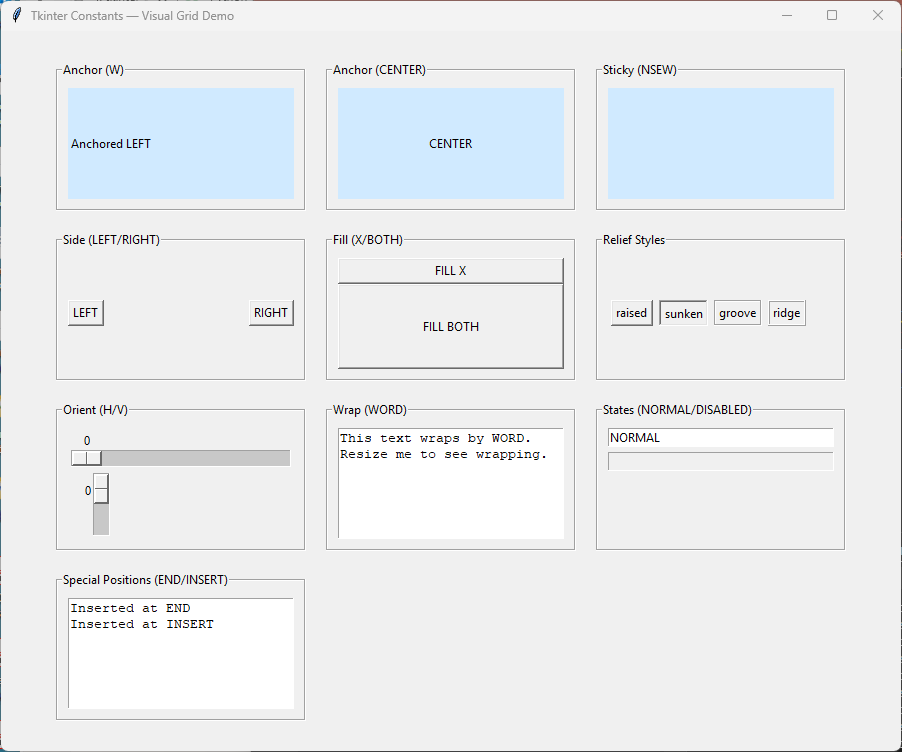
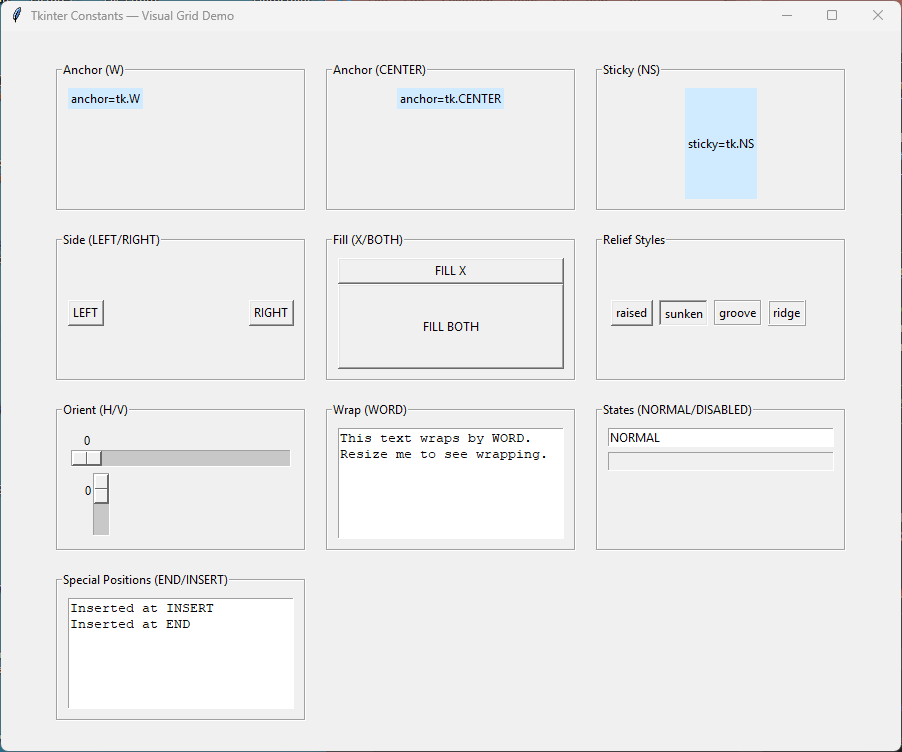
constants

diff --git a/docs/tk_basics/python/tk_constants.py b/docs/tk_basics/python/tk_constants.py
@@ -24,21 +24,21 @@ grid.pack(padx=20, pady=20)
 # 1. ANCHOR DEMOS
 # ---------------------------------------------------------
 def anchor_demo(parent):
-    lbl = tk.Label(parent, text="Anchored LEFT", bg="#d0eaff", anchor=tk.W)
-    lbl.pack(fill=tk.BOTH, expand=True)
+    lbl = tk.Label(parent, text="anchor=tk.W", bg="#d0eaff")
+    lbl.pack(anchor=tk.W)
 
 def anchor_center_demo(parent):
-    lbl = tk.Label(parent, text="CENTER", bg="#d0eaff", anchor=tk.CENTER)
-    lbl.pack(fill=tk.BOTH, expand=True)
+    lbl = tk.Label(parent, text="anchor=tk.CENTER", bg="#d0eaff")
+    lbl.pack(anchor=tk.CENTER)
 
 # ---------------------------------------------------------
 # 2. STICKY DEMOS
 # ---------------------------------------------------------
 def sticky_demo(parent):
-    f = tk.Frame(parent, bg="#d0eaff")
-    f.grid(row=0, column=0, sticky=tk.NSEW)
+    lbl = tk.Label(parent, text="sticky=tk.NS", bg="#d0eaff")
     parent.grid_rowconfigure(0, weight=1)
     parent.grid_columnconfigure(0, weight=1)
+    lbl.grid(row=0, column=0, sticky=tk.NS)
 
 # ---------------------------------------------------------
 # 3. SIDE DEMOS
@@ -94,8 +94,8 @@ def state_demo(parent):
 def special_demo(parent):
     txt = tk.Text(parent, height=4)
     txt.pack(fill=tk.BOTH, expand=True)
-    txt.insert(tk.END, "Inserted at END\n")
     txt.insert(tk.INSERT, "Inserted at INSERT\n")
+    txt.insert(tk.END, "Inserted at END\n")
 
 # ---------------------------------------------------------
 # PLACE CELLS IN A VISUAL GRID
@@ -103,131 +103,7 @@ def special_demo(parent):
 cells = [
     ("Anchor (W)", anchor_demo),
     ("Anchor (CENTER)", anchor_center_demo),
-    ("Sticky (NSEW)", sticky_demo),
-    ("Side (LEFT/RIGHT)", side_demo),
-    ("Fill (X/BOTH)", fill_demo),
-    ("Relief Styles", relief_demo),
-    ("Orient (H/V)", orient_demo),
-    ("Wrap (WORD)", wrap_demo),
-    ("States (NORMAL/DISABLED)", state_demo),
-    ("Special Positions (END/INSERT)", special_demo),
-]
-
-# 3 columns
-cols = 3
-for i, (title, fn) in enumerate(cells):
-    r = i // cols
-    c = i % cols
-    cell = make_cell(grid, title, fn)
-    cell.grid(row=r, column=c, padx=10, pady=10)
-
-root.mainloop()
-import tkinter as tk
-
-root = tk.Tk()
-root.title("Tkinter Constants — Visual Grid Demo")
-root.geometry("900x900")
-root.configure(bg="#f0f0f0")
-
-# Helper to create labeled demo cells
-def make_cell(parent, title, widget_fn):
-    frame = tk.LabelFrame(parent, text=title, padx=10, pady=10)
-    frame.pack_propagate(False)
-    frame.configure(width=250, height=150)
-    frame.grid_propagate(False)
-    widget_fn(frame)
-    return frame
-
-# ---------------------------------------------------------
-# GRID CONTAINER
-# ---------------------------------------------------------
-grid = tk.Frame(root, bg="#f0f0f0")
-grid.pack(padx=20, pady=20)
-
-# ---------------------------------------------------------
-# 1. ANCHOR DEMOS
-# ---------------------------------------------------------
-def anchor_demo(parent):
-    lbl = tk.Label(parent, text="Anchored LEFT", bg="#d0eaff", anchor=tk.W)
-    lbl.pack(fill=tk.BOTH, expand=True)
-
-def anchor_center_demo(parent):
-    lbl = tk.Label(parent, text="CENTER", bg="#d0eaff", anchor=tk.CENTER)
-    lbl.pack(fill=tk.BOTH, expand=True)
-
-# ---------------------------------------------------------
-# 2. STICKY DEMOS
-# ---------------------------------------------------------
-def sticky_demo(parent):
-    f = tk.Frame(parent, bg="#d0eaff")
-    f.grid(row=0, column=0, sticky=tk.NSEW)
-    parent.grid_rowconfigure(0, weight=1)
-    parent.grid_columnconfigure(0, weight=1)
-
-# ---------------------------------------------------------
-# 3. SIDE DEMOS
-# ---------------------------------------------------------
-def side_demo(parent):
-    tk.Button(parent, text="LEFT").pack(side=tk.LEFT)
-    tk.Button(parent, text="RIGHT").pack(side=tk.RIGHT)
-
-# ---------------------------------------------------------
-# 4. FILL DEMOS
-# ---------------------------------------------------------
-def fill_demo(parent):
-    tk.Button(parent, text="FILL X").pack(fill=tk.X)
-    tk.Button(parent, text="FILL BOTH").pack(fill=tk.BOTH, expand=True)
-
-# ---------------------------------------------------------
-# 5. RELIEF DEMOS
-# ---------------------------------------------------------
-def relief_demo(parent):
-    for relief in [tk.RAISED, tk.SUNKEN, tk.GROOVE, tk.RIDGE]:
-        tk.Button(parent, text=relief, relief=relief).pack(side=tk.LEFT, padx=3)
-
-# ---------------------------------------------------------
-# 6. ORIENT DEMOS
-# ---------------------------------------------------------
-def orient_demo(parent):
-    tk.Scale(parent, from_=0, to=100, orient=tk.HORIZONTAL).pack(fill=tk.X)
-    tk.Scale(parent, from_=0, to=100, orient=tk.VERTICAL).pack(side=tk.LEFT, fill=tk.Y)
-
-# ---------------------------------------------------------
-# 7. WRAP DEMOS
-# ---------------------------------------------------------
-def wrap_demo(parent):
-    txt = tk.Text(parent, height=4, wrap=tk.WORD)
-    txt.insert(tk.END, "This text wraps by WORD.\nAcdefg hijklmnop qrstuvwxyz  \nResize me to see wrapping.")
-    txt.pack(fill=tk.BOTH, expand=True)
-
-# ---------------------------------------------------------
-# 8. STATE DEMOS
-# ---------------------------------------------------------
-def state_demo(parent):
-    e1 = tk.Entry(parent)
-    e1.insert(0, "NORMAL")
-    e1.pack(fill=tk.X)
-
-    e2 = tk.Entry(parent, state=tk.DISABLED)
-    e2.insert(0, "DISABLED")
-    e2.pack(fill=tk.X, pady=5)
-
-# ---------------------------------------------------------
-# 9. SPECIAL POSITIONS (END, INSERT)
-# ---------------------------------------------------------
-def special_demo(parent):
-    txt = tk.Text(parent, height=4)
-    txt.pack(fill=tk.BOTH, expand=True)
-    txt.insert(tk.END, "Inserted at END\n")
-    txt.insert(tk.INSERT, "Inserted at INSERT\n")
-
-# ---------------------------------------------------------
-# PLACE CELLS IN A VISUAL GRID
-# ---------------------------------------------------------
-cells = [
-    ("Anchor (W)", anchor_demo),
-    ("Anchor (CENTER)", anchor_center_demo),
-    ("Sticky (NSEW)", sticky_demo),
+    ("Sticky (NS)", sticky_demo),
     ("Side (LEFT/RIGHT)", side_demo),
     ("Fill (X/BOTH)", fill_demo),
     ("Relief Styles", relief_demo),

diff --git a/docs/tk_basics/tkinter_options.rst b/docs/tk_basics/tkinter_options.rst
@@ -2,7 +2,7 @@
 tkinter options
 ====================================================
 
-Setting Options
+Setting Options for tk widgets
 ----------------------------------------
 
 | Options control things like the color and border width of a widget.
@@ -30,7 +30,7 @@ After object creation
 
 .. code-block:: python
 
-    button_1.config(fg="green", bg="yellow", font=("Arial", 24))
+    button_2.config(fg="green", bg="yellow", font=("Arial", 24))
 
 ----
 
